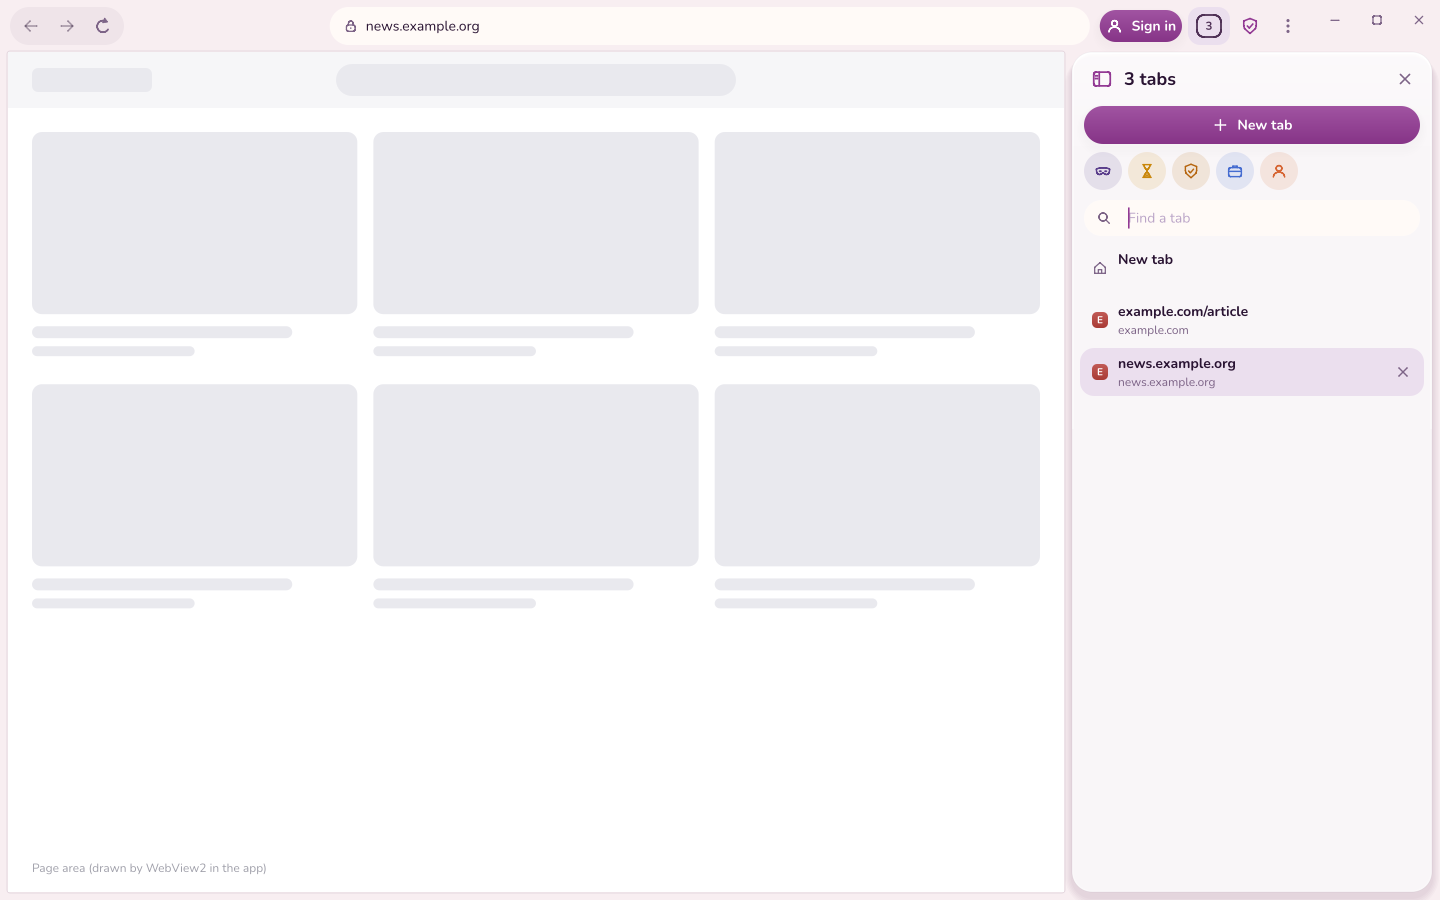
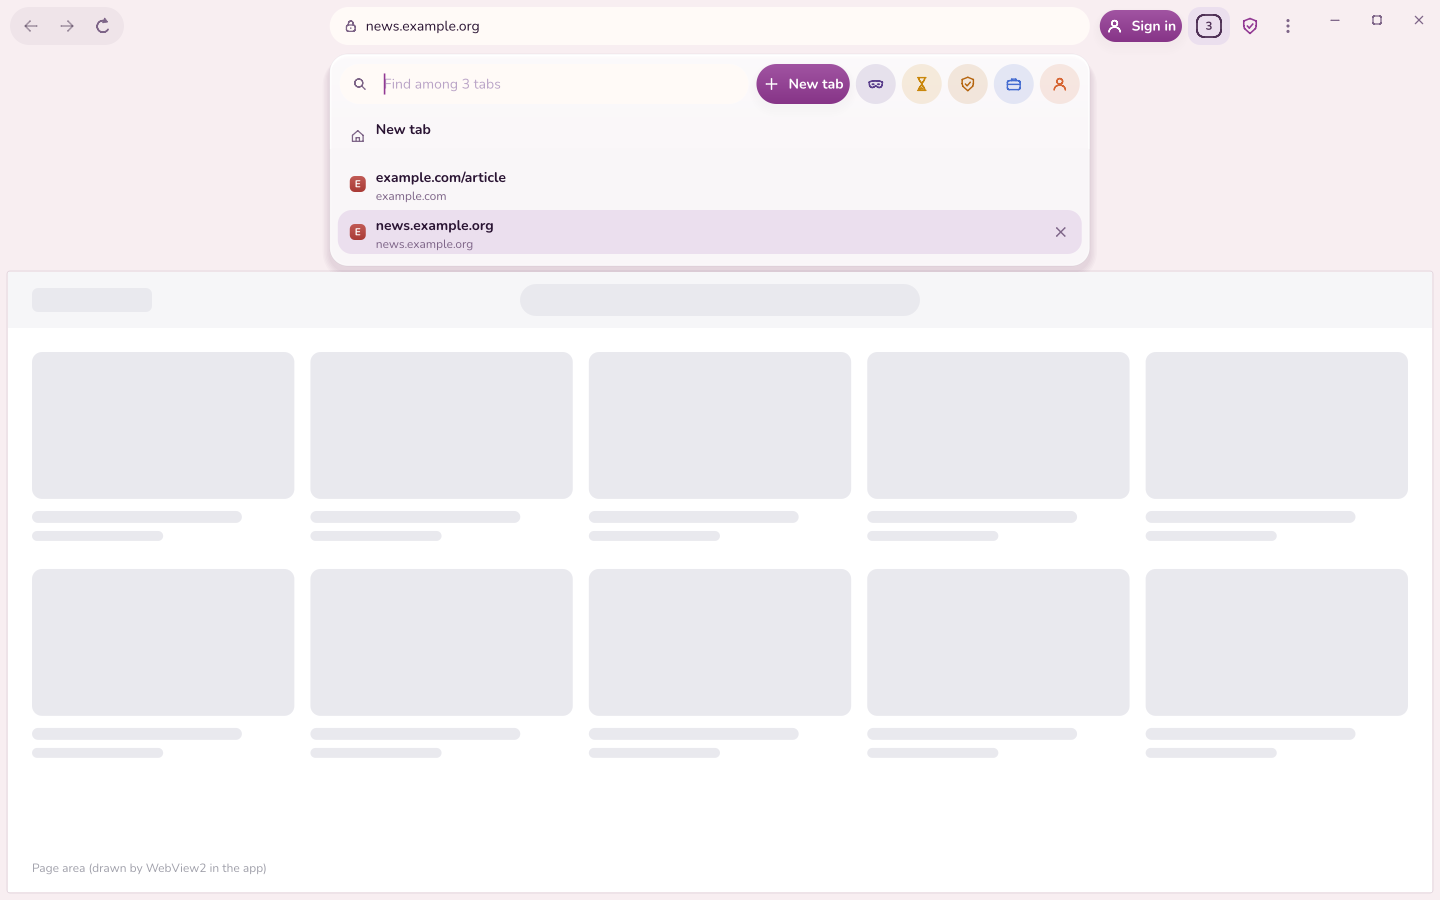
Tabs: a list that drops down under the address bar
Claude-Session: https://claude.ai/code/session_01MEhVsAAkMkEJaBw27qK1mL

diff --git a/shell/tablist.go b/shell/tablist.go
@@ -1,24 +1,25 @@
 package shell
 
 import (
+	"strconv"
 	"strings"
 
 	"litego/core"
 	"litego/ui"
 )
 
-// The tab list: the tabs button opens it at the side, like the menu, and the
-// page stays beside it. Type to find a tab; the arrows and Enter pick one;
+// The tab list: the tabs button opens it under the address bar, the way the
+// suggestions open, and closes it again. Type to find a tab; the arrows and Enter pick one;
 // the row at the top opens new tabs of every kind.
 
 // toggleTabs opens or closes the list.
 func (a *App) toggleTabs() {
-	if a.tabsOpen() {
-		a.panel = false
+	if a.tabsDrop {
+		a.tabsDrop = false
 		a.refocusPage()
 		return
 	}
-	a.panel, a.panelMode, a.ai.open = true, panelTabs, false
+	a.tabsDrop = true
 	a.tabQ.Set("")
 	a.tabSel = a.cur
 	a.tabSc.Y = max(0, float32(a.cur-4)*52)
@@ -27,7 +28,7 @@ func (a *App) toggleTabs() {
 }
 
 // tabsOpen says whether the list is showing.
-func (a *App) tabsOpen() bool { return a.panel && a.panelMode == panelTabs }
+func (a *App) tabsOpen() bool { return a.tabsDrop }
 
 // refocusPage gives the keyboard back to the current page.
 func (a *App) refocusPage() {
@@ -52,45 +53,47 @@ func (a *App) matching() []int {
 	return out
 }
 
-// drawTabList fills the side panel's body with the tabs.
+// drawTabList draws the list in r: a search and the new-tab buttons on one
+// row, then the tabs.
 func (a *App) drawTabList(r ui.Rect) {
 	u, g, th := &a.u, a.u.G, a.u.Th
-	x, w := r.X+12, r.W-24
-	y := r.Y
-
-	// new tabs of every kind, as small buttons
-	y = a.newTabRow(x, y, w) + 10
-
-	// the search
-	fr := ui.Rect{X: x, Y: y, W: w, H: 36}
-	ui.FillRound(g, fr, 18, addrFill(th))
-	ui.DrawIcon(g, ui.ISearch, fr.X+12, fr.CY()-8, 16, th.OnSurfaceVariant)
+	ui.Glass(g, r, 18, th, true, true)
+	u.PushHit(r)
+	defer u.PopHit()
+	x, w := r.X+10, r.W-20
+	y := r.Y + 10
 	list := a.matching()
 	pick := func(i int) {
-		a.panel = false
+		a.tabsDrop = false
 		a.st.Focus = ui.ID{}
 		a.selectTab(i)
 	}
-	u.TextField(ID("tabq"), ui.Rect{X: fr.X + 34, Y: fr.Y, W: fr.W - 44, H: fr.H}, a.tabQ, ui.FieldOpt{Bare: true, Placeholder: "Find a tab",
+	// the row: find, then New tab and the other kinds at the right
+	bx := a.newTabRow(x+w, y)
+	fr := ui.Rect{X: x, Y: y, W: max(120, bx-x-8), H: 40}
+	ui.FillRound(g, fr, 20, addrFill(th))
+	ui.DrawIcon(g, ui.ISearch, fr.X+12, fr.CY()-8, 16, th.OnSurfaceVariant)
+	u.TextField(ID("tabq"), ui.Rect{X: fr.X + 34, Y: fr.Y, W: fr.W - 44, H: fr.H}, a.tabQ, ui.FieldOpt{Bare: true,
+		Placeholder: "Find among " + strconv.Itoa(len(a.tabs)) + " tabs",
 		OnEnter: func() {
 			if len(list) > 0 {
 				pick(a.selIn(list))
 			}
 		}})
-	a.listKeys(list, r.B()-fr.B()-8)
-	y = fr.B() + 8
-
-	// the rows
-	area := ui.Rect{X: r.X, Y: y, W: r.W, H: r.B() - y}
-	const rh = 52
-	a.tabSc.Content = float32(len(list))*rh + 8
+	area := ui.Rect{X: r.X, Y: fr.B() + 10, W: r.W, H: r.B() - fr.B() - 16}
+	a.listKeys(list, area.H)
+	if a.In.Has(ui.KEscape, false) {
+		a.toggleTabs()
+		return
+	}
+	const rh = 48
+	a.tabSc.Content = float32(len(list)) * rh
 	u.Scroll(ID("tablist"), area, &a.tabSc)
 	g.Save()
 	g.Clip(area)
-	u.PushHit(area)
 	sel := a.selIn(list)
 	for k, i := range list {
-		row := ui.Rect{X: x - 4, Y: area.Y + float32(k)*rh - a.tabSc.Y, W: w + 8, H: rh - 4}
+		row := ui.Rect{X: x - 2, Y: area.Y + float32(k)*rh - a.tabSc.Y, W: w + 4, H: rh - 4}
 		if row.B() < area.Y || row.Y > area.B() {
 			continue
 		}
@@ -103,9 +106,8 @@ func (a *App) drawTabList(r ui.Rect) {
 		}
 	}
 	if len(list) == 0 {
-		g.Text("No tab matches.", x, area.Y+20, ui.FBody, th.OnSurfaceVariant)
+		g.Text("No tab matches.", x+8, area.Y+22, ui.FBody, th.OnSurfaceVariant)
 	}
-	u.PopHit()
 	g.Restore()
 }
 
@@ -154,8 +156,9 @@ func (a *App) listKeys(list []int, h float32) {
 	}
 }
 
-// newTabRow is a row of small buttons that open a new tab of each kind.
-func (a *App) newTabRow(x, y, w float32) float32 {
+// newTabRow draws, right-aligned to right at height y, the New tab button
+// and round buttons for the other kinds of tab; it returns its left edge.
+func (a *App) newTabRow(right, y float32) float32 {
 	u, g, th := &a.u, a.u.G, a.u.Th
 	type item struct {
 		label, tip string
@@ -164,7 +167,6 @@ func (a *App) newTabRow(x, y, w float32) float32 {
 		open       func()
 	}
 	items := []item{
-		{"New tab", "Ctrl+T", ui.IPlus, th.Primary, func() { a.newTab(KNormal, "", "", true) }},
 		{"Private", "Nothing is kept  Ctrl+Shift+N", ui.IPrivate, privateColor(th), func() { a.newTab(KPrivate, "", "", true) }},
 		{"Temporary", "A fresh session for this tab alone, wiped when it closes", ui.IHourglass, ui.Mix(th.Hl, th.Ink, 0.25), func() { a.newTab(KTemp, "", "", true) }},
 		{"Sandbox", "For a site you do not trust: no downloads, no permissions, nothing kept", ui.IShield, sandboxColor(th), func() { a.newTab(KSandbox, "", "", true) }},
@@ -173,34 +175,31 @@ func (a *App) newTabRow(x, y, w float32) float32 {
 		name := c.Name
 		items = append(items, item{name, "Container: its own sign-ins", iconOf(c), tone(th, c.Color), func() { a.newTab(KContainer, name, "", true) }})
 	}
-	// the first is a full-width button; the others are round icon buttons with tips
-	nb := ui.Rect{X: x, Y: y, W: w, H: 38}
-	if u.Button(ID("listnew"), nb, "New tab", ui.ButtonOpt{Primary: true, Icon: ui.IPlus, HasIcon: true, Tip: "Ctrl+T"}) {
-		a.panel = false
-		items[0].open()
-		return y + 38
-	}
-	y = nb.B() + 8
-	cx := x
-	for i, it := range items[1:] {
-		if cx+38 > x+w {
-			cx, y = x, y+42
-		}
-		b := ui.Rect{X: cx, Y: y, W: 38, H: 38}
-		ui.FillRound(g, b, 19, it.col.Alpha(0.13))
+	cx := right
+	for i := len(items) - 1; i >= 0; i-- {
+		it := items[i]
+		cx -= 40
+		b := ui.Rect{X: cx, Y: y, W: 40, H: 40}
+		ui.FillOval(g, b, it.col.Alpha(0.13))
 		if u.Hover(b) {
-			ui.FillRound(g, b, 19, th.Ink.Alpha(0.06))
+			ui.FillOval(g, b, th.Ink.Alpha(0.06))
 		}
 		ui.DrawIcon(g, it.icon, b.CX()-9, b.CY()-9, 18, it.col)
 		u.Tooltip(it.label+": "+it.tip, b)
 		if u.Clickable(ui.IdN("listkind", i), b) {
-			a.panel = false
+			a.tabsDrop = false
 			it.open()
-			return y + 38
 		}
-		cx = b.R() + 6
+		cx -= 6
 	}
-	return y + 38
+	lbl := "New tab"
+	bw := g.Measure(lbl, ui.FSmallBold) + 46
+	cx -= bw
+	if u.Button(ID("listnew"), ui.Rect{X: cx, Y: y, W: bw, H: 40}, lbl, ui.ButtonOpt{Primary: true, Icon: ui.IPlus, HasIcon: true, Tip: "Ctrl+T"}) {
+		a.tabsDrop = false
+		a.newTab(KNormal, "", "", true)
+	}
+	return cx
 }
 
 // tabRow draws one tab in the list; it returns true when it was picked.

diff --git a/shell/chrome.go b/shell/chrome.go
@@ -41,8 +41,18 @@ func (a *App) chrome(full ui.Rect) ui.Rect {
 	if a.st.Focus == ID("addr") && len(a.sugg) > 0 {
 		sugH = float32(len(a.sugg))*40 + 12
 	}
+	tabsH := float32(0)
+	if a.tabsDrop && a.st.Focus == ID("addr") {
+		a.tabsDrop = false // typing an address closes the list
+	}
+	if a.tabsDrop {
+		n := len(a.matching())
+		tabsH = 64 + float32(min(max(n, 1), 8))*48 + 12
+		tabsH = min(tabsH, full.H*0.7)
+		sugH = 0
+	}
 	sugTop := y
-	y += sugH
+	y += sugH + tabsH
 	if a.find.open {
 		a.findBar(ui.Rect{X: 8, Y: y, W: w - 16, H: 40})
 		y += 46
@@ -76,6 +86,13 @@ func (a *App) chrome(full ui.Rect) ui.Rect {
 	}
 	if sugH > 0 {
 		a.suggestions(ui.Rect{X: addr.X, Y: sugTop + 2, W: addr.W, H: sugH - 6}, ID("sugA"))
+	}
+	if tabsH > 0 {
+		lr := ui.Rect{X: addr.X, Y: sugTop + 2, W: addr.W, H: tabsH - 8}
+		if lr.W < 560 { // a narrow window: the list takes the width
+			lr.X, lr.W = 8, w-16
+		}
+		a.drawTabList(lr)
 	}
 	return ui.Rect{X: x, Y: y, W: max(0, right-x), H: max(0, full.H-y-8)}
 }

diff --git a/shell/panel.go b/shell/panel.go
@@ -26,12 +26,6 @@ func (a *App) drawPanel(r ui.Rect) {
 	case panelHistory:
 		title = "History"
 		ui.DrawIcon(g, ui.IHistory, hr.X+19, hr.CY()-11, 22, th.Primary)
-	case panelTabs:
-		title = strconv.Itoa(len(a.tabs)) + " tabs"
-		if len(a.tabs) == 1 {
-			title = "1 tab"
-		}
-		ui.DrawIcon(g, ui.ITabsVertical, hr.X+19, hr.CY()-11, 22, th.Primary)
 	default:
 		logo(g, ui.RectAround(hr.X+30, hr.CY(), 26, 26), th, th.Primary)
 	}
@@ -51,9 +45,6 @@ func (a *App) drawPanel(r ui.Rect) {
 		return
 	case panelHistory:
 		a.drawHistory(body)
-		return
-	case panelTabs:
-		a.drawTabList(body)
 		return
 	}
 	sc := &a.panelScroll

diff --git a/shell/settings.go b/shell/settings.go
@@ -26,7 +26,7 @@ var settingsSections = []settingsSection{
 
 // openSettings opens the menu at section sec.
 func (a *App) openSettings(sec string) {
-	a.panel, a.panelMode = true, panelSettings
+	a.panel, a.panelMode, a.tabsDrop = true, panelSettings, false
 	a.ai.open = false
 	if sec != "" {
 		a.setSec = sec

diff --git a/shell/app.go b/shell/app.go
@@ -122,7 +122,8 @@ type App struct {
 	setSec    string // the menu's open section ("" = none)
 	nameEd    *ui.TextEdit
 	// the tab list (mobile-style tabs) and its search
-	tabQ   *ui.TextEdit
+	tabsDrop bool // the tab list under the address bar
+	tabQ     *ui.TextEdit
 	tabSc  ui.Scroll
 	tabSel int
 

diff --git a/shell/balance.go b/shell/balance.go
@@ -14,7 +14,6 @@ const (
 	panelSettings panelMode = iota
 	panelDownloads
 	panelHistory
-	panelTabs
 	panelPhone
 	panelApp // a side app: Muse, Proton Pass
 )

diff --git a/README.md b/README.md
@@ -90,7 +90,7 @@ a page of Lite Go's own, in your theme. No bookmarks, no tiles, no feeds.
 </tr>
 <tr>
 <td align="center"><sub><b>Lite results.</b> The AI answer with named sources, goggles, stacks of pictures and videos.</sub></td>
-<td align="center"><sub><b>Tabs.</b> A list at the side, with a search and every kind of new tab.</sub></td>
+<td align="center"><sub><b>Tabs.</b> A list under the address bar, with a search and every kind of new tab.</sub></td>
 </tr>
 <tr>
 <td width="50%"><img src="assets/screens/menu.png" alt="The menu"></td>
@@ -133,7 +133,7 @@ and thumbnails are placeholders); the Android ones come from an emulator.</sub>
 | **One slim bar** | Back, forward and reload at the left, the address in the middle, then the tabs button, the shield and the menu. It narrows to what is needed on a small window. A Sign in button shows only while Lite Go is not signed in to Google. |
 | **The menu** | Tools (private tab, history, downloads, reopen, split view, find, print, free memory), zoom, your name for the AI answers, and the settings in sections that open in place: appearance (the palettes, shared with Ember), shields and privacy, containers, memory, history and data, about and updates. |
 | **The usual** | Find in page, zoom, print, a searchable history by day, reopen a closed tab, and the last tabs brought back at start (unloaded until you open them). |
-| **Tabs** | A list at the side, opened like the menu (Ctrl+Shift+A or the tabs button), with the page still beside it: type to find a tab, Up, Down and Enter to pick one, and buttons that open new, private, temporary, sandbox and container tabs. Containers keep their own sign-ins, each with an icon and a color. |
+| **Tabs** | A list that drops down under the address bar (Ctrl+Shift+A or the tabs button), the way suggestions open: type to find a tab, Up, Down and Enter to pick one, and buttons that open new, private, temporary, sandbox and container tabs. Containers keep their own sign-ins, each with an icon and a color. |
 
 ### Memory
 

diff --git a/packaging/release-notes.md b/packaging/release-notes.md
@@ -3,7 +3,7 @@ Lite Go: a light, fast browser in Go and Gio for Windows 10 and 11, Linux and An
 ## New in 1.0.10
 
 - **Sharper pages on Linux.** Chromium's frames are painted pixel for pixel at the screen's real scale, with no smoothing.
-- **Tabs as a list.** The tabs button (Ctrl+Shift+A) opens a list at the side, like the menu, with the page still beside it, in place of the full-page grid.
+- **Tabs as a list.** The tabs button (Ctrl+Shift+A) drops a list down under the address bar, the way suggestions open, in place of the full-page grid.
 - **YouTube and tabs playing sound or video never rest**, nor for ten minutes after they pause.
 - **Less memory and less work.** Pages of one site share a process and fewer page processes run; Chromium's back-and-forward page cache and its background services are off; only the changed part of each frame is copied; Lite Go wakes up less often when idle.
 
